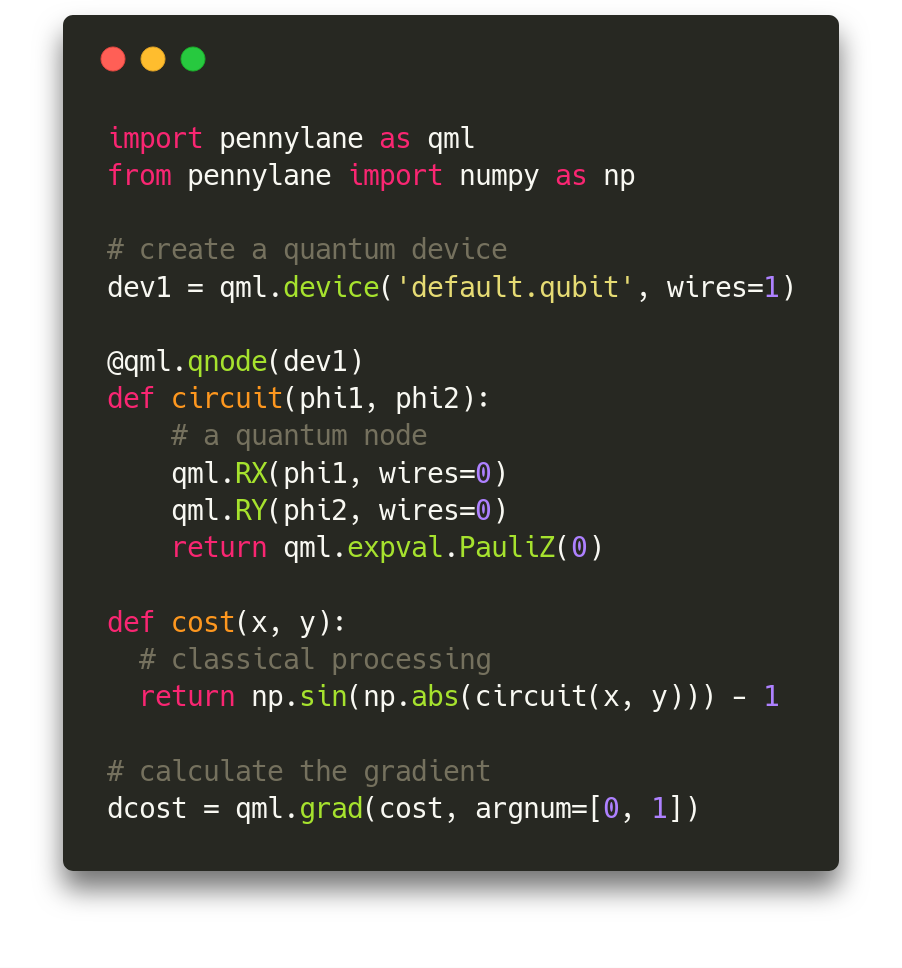
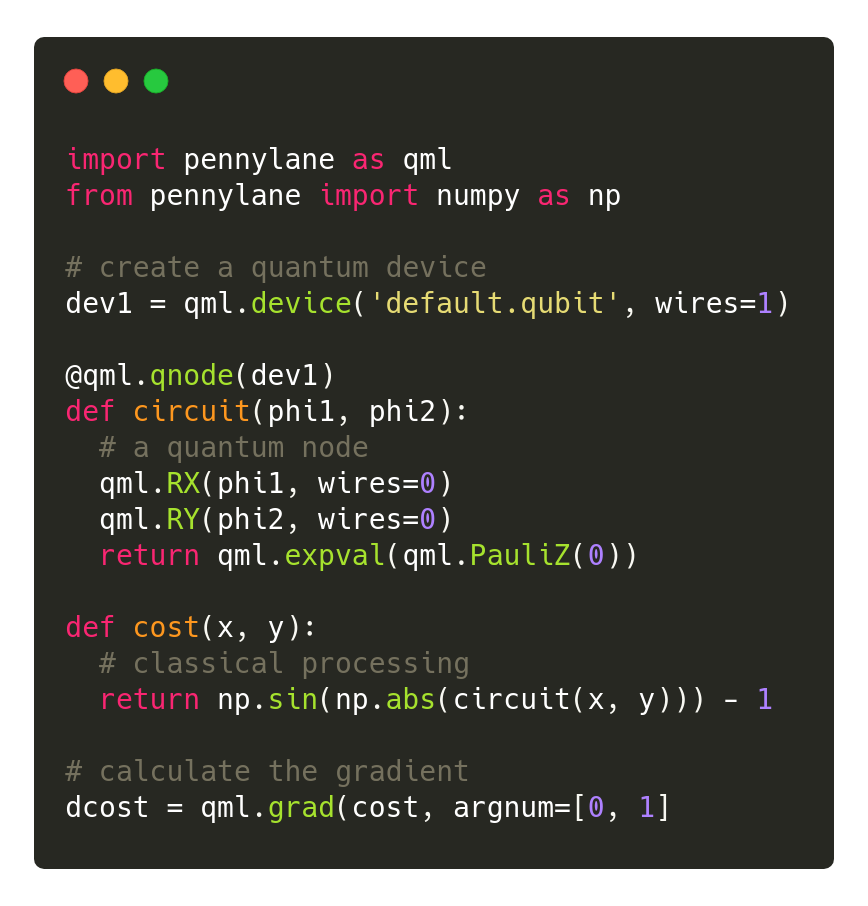
Shoring up docs after measure refactor (#259)
* shoring up docs after refactor

* shoring up examples

* apply suggestions from code review

* Apply suggestions from code review

diff --git a/pennylane/plugins/default_qubit.py b/pennylane/plugins/default_qubit.py
@@ -56,7 +56,7 @@ Gates and operations
     SWAP
     CZ
 
-Expectations
+Observables
 ------------
 
 .. autosummary::
@@ -227,7 +227,7 @@ def hermitian(*args):
     return A
 
 def identity(*_):
-    """Identity matrix for expectations.
+    """Identity matrix observable.
 
     Returns:
         array: 2x2 identity matrix
@@ -345,17 +345,6 @@ class DefaultQubit(Device):
         return np.reshape(state_multi_index, 2 ** self.num_wires)
 
     def expval(self, observable, wires, par):
-        r"""Expectation value of observable on specified wires.
-
-        Args:
-          observable      (str): name of the observable
-          wires (Sequence[int]): target subsystems
-          par    (tuple[float]): parameter values
-
-        Returns:
-          float: expectation value :math:`\expect{A} = \bra{\psi}A\ket{\psi}`
-            """
-
         A = self._get_operator_matrix(observable, par)
         if self.shots == 0:
             # exact expectation value
@@ -370,9 +359,8 @@ class DefaultQubit(Device):
 
         return ev
 
-    def var(self, expectation, wires, par):
-        # measurement/expectation value <psi|A|psi>
-        A = self._get_operator_matrix(expectation, par)
+    def var(self, observable, wires, par):
+        A = self._get_operator_matrix(observable, par)
         return self.ev(A@A, wires) - self.ev(A, wires)**2
 
     def _get_operator_matrix(self, operation, par):
@@ -390,15 +378,6 @@ class DefaultQubit(Device):
         return A(*par)
 
     def ev(self, A, wires):
-        r"""Evaluates an expectation value of the current state.
-
-        Args:
-          A (array): :math:`2^M\times 2^M` Hermitian matrix corresponding to the observable
-          wires (Sequence[int]): target subsystems
-
-        Returns:
-          float: expectation value :math:`\expect{A} = \bra{\psi}A\ket{\psi}`
-        """
         As = self.mat_vec_product(A, self._state, wires)
         expectation = np.vdot(self._state, As)
 

diff --git a/pennylane/_device.py b/pennylane/_device.py
@@ -332,35 +332,29 @@ class Device(abc.ABC):
 
     @abc.abstractmethod
     def expval(self, observable, wires, par):
-        """Return the expectation value of an observable.
-
-        For plugin developers: this function should return the expectation value of the
-        given observable on the device.
+        r"""Returns the expectation value of observable on specified wires.
 
         Args:
-            observable (str): name of the observable
-            wires (Sequence[int]): subsystems the observable is to be measured on
-            par (tuple): parameters for the observable
+          observable (str): name of the observable
+          wires (Sequence[int]): target subsystems
+          par (tuple[float]): parameter values
 
         Returns:
-            float: expectation value
-        """
+          float: expectation value :math:`\expect{A} = \bra{\psi}A\ket{\psi}`
+            """
         raise NotImplementedError
 
     def var(self, observable, wires, par):
-        """Return the variance value of an observable.
-
-        For plugin developers: this function should return the variance value of the
-        given observable on the device.
+        r"""Returns the variance of observable on specified wires.
 
         Args:
-            observable (str): name of the observable
-            wires (Sequence[int]): subsystems the observable is to be measured on
-            par (tuple): parameters for the observable
+          observable (str): name of the observable
+          wires (Sequence[int]): target subsystems
+          par (tuple[float]): parameter values
 
         Returns:
-            float: expectation value
-        """
+          float: variance :math:`\mathrm{var}(A) = \bra{\psi}A^2\ket{\psi} - \bra{\psi}A\ket{\psi}^2`
+            """
         raise NotImplementedError
 
     @abc.abstractmethod

diff --git a/pennylane/interfaces/torch.py b/pennylane/interfaces/torch.py
@@ -55,7 +55,7 @@ specify the ``interface='torch'`` keyword argument:
         qml.RY(phi[1], wires=1)
         qml.CNOT(wires=[0, 1])
         qml.PhaseShift(theta, wires=0)
-        return qml.expval.PauliZ(0), qml.expval.Hadamard(1)
+        return qml.expval(qml.PauliZ(0)), qml.expval(qml.Hadamard(1))
 
 The QNode ``circuit()`` is now a PyTorch-capable QNode, accepting ``torch.tensor`` objects
 as input, and returning ``torch.tensor`` objects. Subclassing from ``torch.autograd.Function``,
@@ -83,7 +83,7 @@ using different classical interfaces:
         qml.RY(phi[1], wires=1)
         qml.CNOT(wires=[0, 1])
         qml.PhaseShift(theta, wires=0)
-        return qml.expval.PauliZ(0), qml.expval.Hadamard(1)
+        return qml.expval(qml.PauliZ(0)), qml.expval(qml.Hadamard(1))
 
     qnode1 = qml.QNode(circuit, dev1)
     qnode2 = qml.QNode(circuit, dev2)
@@ -121,7 +121,7 @@ For example:
         qml.RY(phi[1], wires=1)
         qml.CNOT(wires=[0, 1])
         qml.PhaseShift(theta, wires=0)
-        return qml.expval.PauliZ(0)
+        return qml.expval(qml.PauliZ(0))
 
     phi = Variable(torch.tensor([0.5, 0.1]), requires_grad=True)
     theta = Variable(torch.tensor(0.2), requires_grad=True)
@@ -163,7 +163,7 @@ we can do the following:
         qml.RZ(phi[1], wires=1)
         qml.CNOT(wires=[0, 1])
         qml.RX(theta, wires=0)
-        return qml.expval.PauliZ(0)
+        return qml.expval(qml.PauliZ(0))
 
     def cost(phi, theta):
         return torch.abs(circuit(phi, theta) - 0.5)**2

diff --git a/pennylane/interfaces/tfe.py b/pennylane/interfaces/tfe.py
@@ -61,7 +61,7 @@ specify the ``interface='tfe'`` keyword argument:
         qml.RY(phi[1], wires=1)
         qml.CNOT(wires=[0, 1])
         qml.PhaseShift(theta, wires=0)
-        return qml.expval.PauliZ(0), qml.expval.Hadamard(1)
+        return qml.expval(qml.PauliZ(0)), qml.expval(qml.Hadamard(1))
 
 The QNode ``circuit()`` is now a TensorFlow-capable QNode, accepting ``tfe.Variable`` objects
 as input, and returning ``tf.Tensor`` objects.
@@ -89,7 +89,7 @@ using different classical interfaces:
         qml.RY(phi[1], wires=1)
         qml.CNOT(wires=[0, 1])
         qml.PhaseShift(theta, wires=0)
-        return qml.expval.PauliZ(0), qml.expval.Hadamard(1)
+        return qml.expval(qml.PauliZ(0)), qml.expval(qml.Hadamard(1))
 
     qnode1 = qml.QNode(circuit, dev1)
     qnode2 = qml.QNode(circuit, dev2)
@@ -123,7 +123,7 @@ For example:
         qml.RY(phi[1], wires=1)
         qml.CNOT(wires=[0, 1])
         qml.PhaseShift(theta, wires=0)
-        return qml.expval.PauliZ(0)
+        return qml.expval(qml.PauliZ(0))
 
     phi = tfe.Variable([0.5, 0.1])
     theta = tfe.Variable(0.2)
@@ -167,7 +167,7 @@ result in an expectation value of 0.5, we can do the following:
         qml.RY(phi[1], wires=1)
         qml.CNOT(wires=[0, 1])
         qml.PhaseShift(theta, wires=0)
-        return qml.expval.PauliZ(0)
+        return qml.expval(qml.PauliZ(0))
 
     phi = tfe.Variable([0.5, 0.1], dtype=tf.float64)
     theta = tfe.Variable(0.2, dtype=tf.float64)

diff --git a/pennylane/qnode.py b/pennylane/qnode.py
@@ -41,7 +41,7 @@ The quantum circuit function encapsulated by the QNode must be of the following 
         qml.RZ(x, wires=0)
         qml.CNOT(wires=[0,1])
         qml.RY(y, wires=1)
-        return expval(qml.PauliZ(0))
+        return qml.expval(qml.PauliZ(0))
 
 Quantum circuit functions are a restricted subset of Python functions, adhering to the following
 constraints:
@@ -90,7 +90,7 @@ For example:
                 qml.RZ(x, wires=0)
                 qml.CNOT(wires=[0,1])
                 qml.RY(y, wires=1)
-                return expval(qml.PauliZ(0))
+                return qml.expval(qml.PauliZ(0))
 
             result = my_quantum_function(np.pi/4, 0.7)
 

diff --git a/examples/Q4_quantum-GAN.py b/examples/Q4_quantum-GAN.py
@@ -73,7 +73,7 @@ def real_disc_circuit(phi, theta, omega, disc_weights):
     """
     real(phi, theta, omega)
     discriminator(disc_weights)
-    return qml.expval.PauliZ(2)
+    return qml.expval(qml.PauliZ(2))
 
 
 @qml.qnode(dev)
@@ -86,7 +86,7 @@ def gen_disc_circuit(gen_weights, disc_weights):
     """
     generator(gen_weights)
     discriminator(disc_weights)
-    return qml.expval.PauliZ(2)
+    return qml.expval(qml.PauliZ(2))
 
 
 def prob_real_true(disc_weights):

diff --git a/examples/Q2a_variational-quantum-eigensolver-quantumopt.py b/examples/Q2a_variational-quantum-eigensolver-quantumopt.py
@@ -36,7 +36,7 @@ def circuit_X(var):
         expectation of Pauli-X observable on Qubit 1
     """
     ansatz(var)
-    return qml.expval.PauliX(1)
+    return qml.expval(qml.PauliX(1))
 
 
 @qml.qnode(dev)
@@ -50,7 +50,7 @@ def circuit_Y(var):
         expectation of Pauli-Y observable on Qubit 1
     """
     ansatz(var)
-    return qml.expval.PauliY(1)
+    return qml.expval(qml.PauliY(1))
 
 
 def cost(var):

diff --git a/examples/Q2b_variational-quantum-eigensolver-classopt.py b/examples/Q2b_variational-quantum-eigensolver-classopt.py
@@ -32,7 +32,7 @@ def circuit_X():
         expectation of Pauli-X observable on Qubit 1
     """
     ansatz()
-    return qml.expval.PauliX(1)
+    return qml.expval(qml.PauliX(1))
 
 
 @qml.qnode(dev)
@@ -43,7 +43,7 @@ def circuit_Y():
         expectation of Pauli-Y observable on Qubit 1
     """
     ansatz()
-    return qml.expval.PauliY(1)
+    return qml.expval(qml.PauliY(1))
 
 
 def cost(var):

diff --git a/examples/CV1_photon-redirection.py b/examples/CV1_photon-redirection.py
@@ -27,7 +27,7 @@ def circuit(var):
     qml.FockState(1, wires=0)
     qml.Beamsplitter(var[0], var[1], wires=[0, 1])
 
-    return qml.expval.MeanPhoton(0)
+    return qml.expval(qml.MeanPhoton(0))
 
 
 def objective(var):

diff --git a/examples/Q3b_variational-classifier-iris.py b/examples/Q3b_variational-classifier-iris.py
@@ -75,7 +75,7 @@ def circuit(weights, angles=None):
     for W in weights:
         layer(W)
 
-    return qml.expval.PauliZ(0)
+    return qml.expval(qml.PauliZ(0))
 
 
 def variational_classifier(var, angles=None):

diff --git a/examples/Q3a_variational-classifier-parity.py b/examples/Q3a_variational-classifier-parity.py
@@ -57,7 +57,7 @@ def circuit(weights, x=None):
     for W in weights:
         layer(W)
 
-    return qml.expval.PauliZ(0)
+    return qml.expval(qml.PauliZ(0))
 
 
 def variational_classifier(var, x=None):

diff --git a/examples/Q1_qubit-rotation.py b/examples/Q1_qubit-rotation.py
@@ -22,7 +22,7 @@ def circuit(var):
     """
     qml.RX(var[0], wires=0)
     qml.RY(var[1], wires=0)
-    return qml.expval.PauliZ(0)
+    return qml.expval(qml.PauliZ(0))
 
 
 def objective(var):
